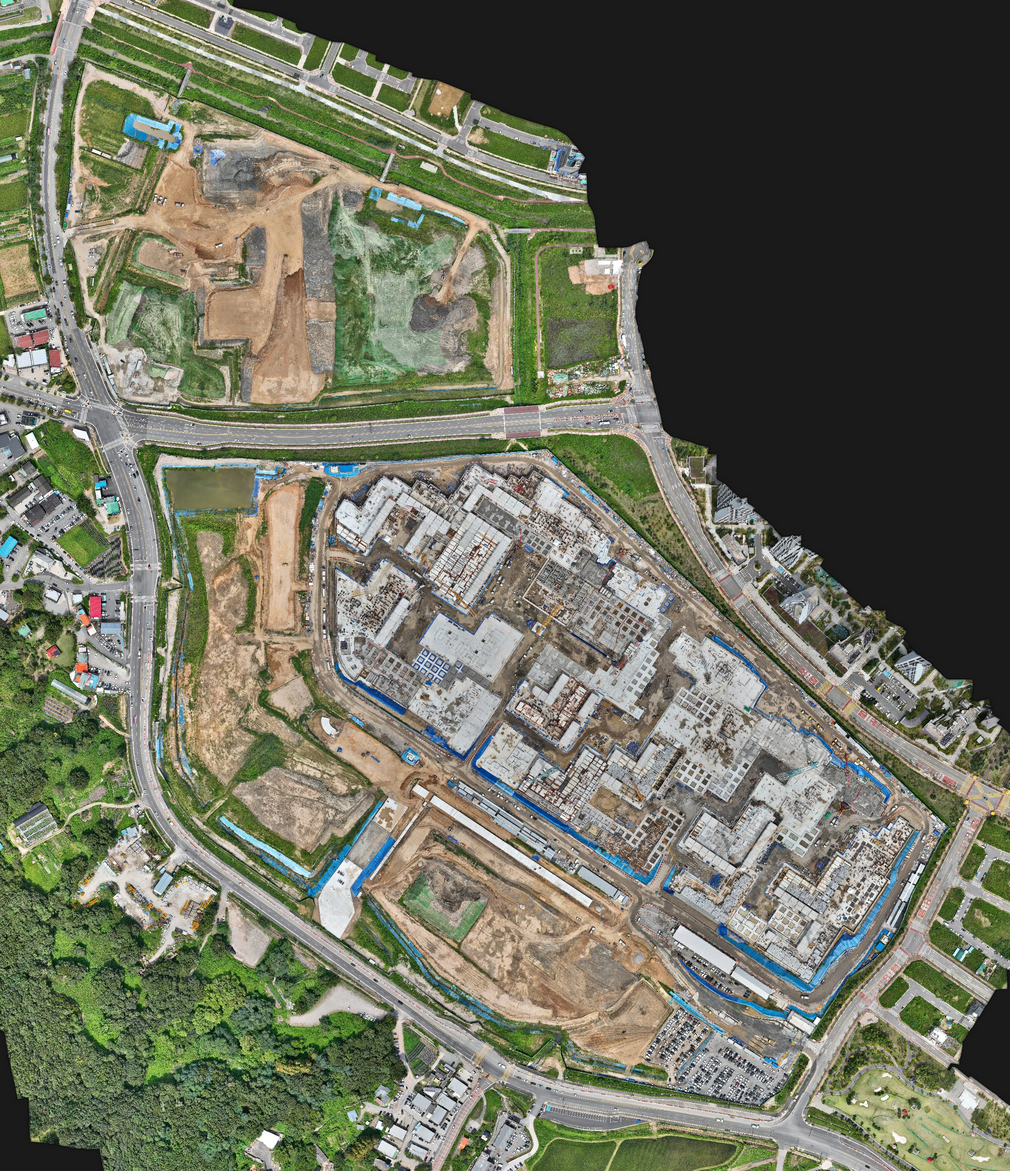
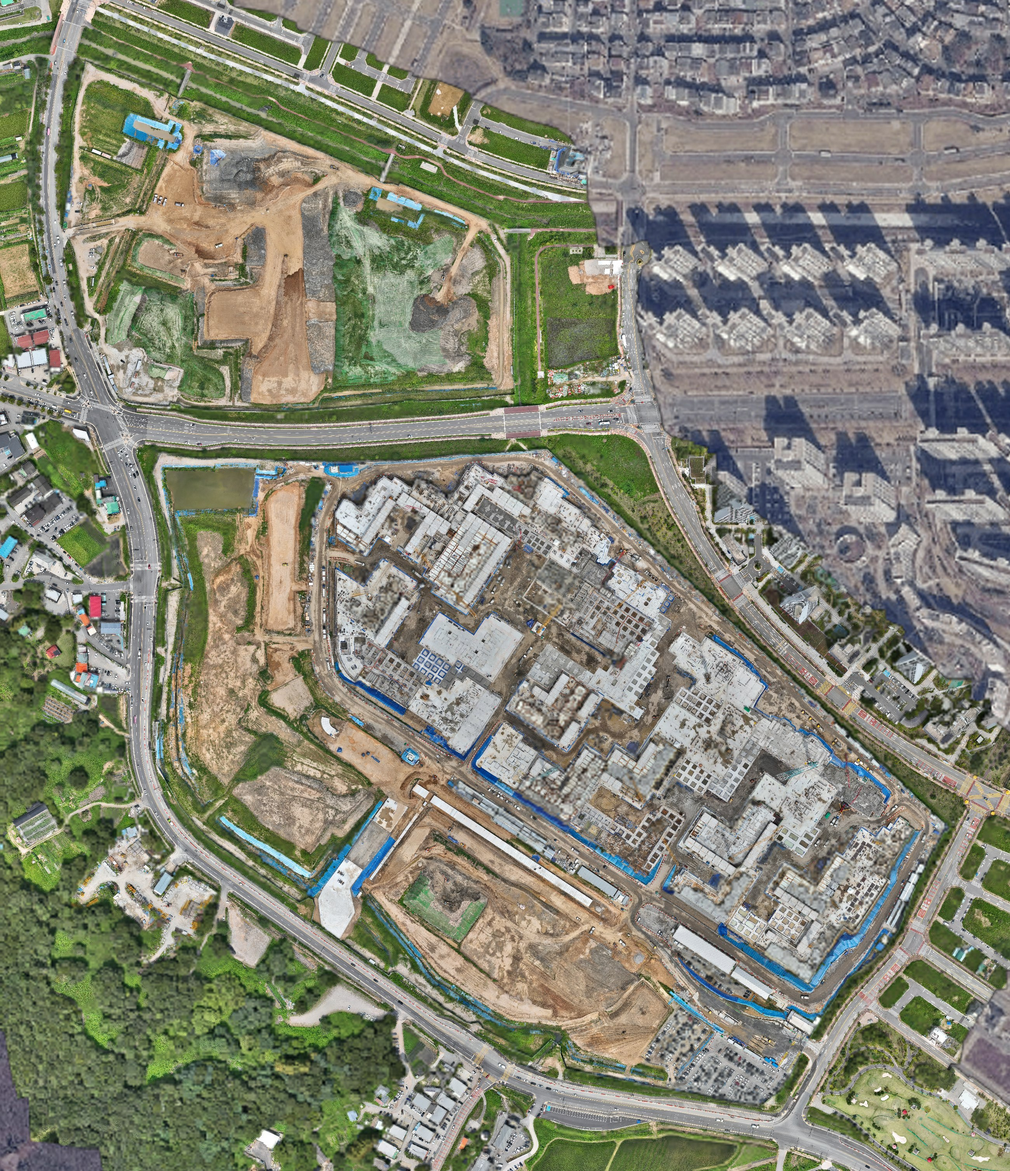
전경 빈 영역 메움(완전 직사각형) + 지도칸 좌우 여백 제거

diff --git a/board.js b/board.js
@@ -618,12 +618,34 @@ function fitW() {
   return Math.min(box.clientWidth, box.clientHeight * (nw / nh));
 }
 
+/* 지도 칸을 사진 비율에 딱 맞춰 좁힌다 — 좌우 검은 여백 제거.
+   높이는 그리드가 정하므로 그 높이에 맞는 폭을 계산해 열 너비로 넣습니다.
+   남는 폭은 우측 정보 영역이 가져갑니다. */
+function hugMap() {
+  const grid = $('.board-grid'), box = $('#siteView'), img = $('#siteImg'), slab = $('.slab-map');
+  const root = document.documentElement;
+  if (!grid || !box || !img || !slab) return;
+  const nw = img.naturalWidth, nh = img.naturalHeight;
+  if (window.innerWidth < 1000 || !S.sFit || !nw || !nh) {
+    root.style.removeProperty('--mapw'); return;
+  }
+  const bh = box.clientHeight; if (!bh) return;
+  const extra = slab.offsetWidth - box.clientWidth;
+  const cs = getComputedStyle(grid);
+  const gap = parseFloat(cs.columnGap) || 12;
+  const avail = grid.clientWidth - parseFloat(cs.paddingLeft) - parseFloat(cs.paddingRight) - gap;
+  const want = bh * (nw / nh) + extra;
+  const min  = window.innerWidth >= 1500 ? 420 : 330;
+  root.style.setProperty('--mapw', Math.round(Math.max(320, Math.min(want, avail - min))) + 'px');
+}
+
 function applyFit() {
   const c = $('.site-canvas'), box = $('#siteView'), img = $('#siteImg');
   if (!c || !box || !img) return;
   box.classList.toggle('fit-wrap', S.sFit);
   const fb = $('#sFit'); if (fb) fb.classList.toggle('active', S.sFit);
 
+  hugMap();
   const base = fitW();
   if (!base) { c.style.width = '100%'; return; }
   const z = S.sFit ? 1 : S.sZoom;

diff --git a/index.html b/index.html
@@ -8,7 +8,7 @@
 <meta name="apple-mobile-web-app-status-bar-style" content="black-translucent">
 <title>현장 상황판</title>
 <link rel="manifest" href="./manifest.json">
-<link rel="stylesheet" href="./board.css?v=202608300930">
+<link rel="stylesheet" href="./board.css?v=202608302344">
 </head>
 <body>
 
@@ -359,7 +359,7 @@
 <script src="https://www.gstatic.com/firebasejs/10.14.1/firebase-auth-compat.js"></script>
 <script src="https://www.gstatic.com/firebasejs/10.14.1/firebase-database-compat.js"></script>
 <script src="https://cdnjs.cloudflare.com/ajax/libs/exceljs/4.4.0/exceljs.min.js"></script>
-<script src="./field.config.js?v=202608300930"></script>
-<script src="./board.js?v=202608300930"></script>
+<script src="./field.config.js?v=202608302344"></script>
+<script src="./board.js?v=202608302344"></script>
 </body>
 </html>

diff --git a/board.css b/board.css
@@ -189,7 +189,7 @@ button,input,select,textarea{font:inherit; color:inherit}
 
 @media(min-width:1000px){
   .board-grid{
-    grid-template-columns:1.2fr minmax(330px,1fr);
+    grid-template-columns:var(--mapw, 1.2fr) minmax(330px,1fr);
     grid-template-rows:minmax(0,1fr);
     overflow:hidden;
   }
@@ -202,7 +202,7 @@ button,input,select,textarea{font:inherit; color:inherit}
   .slab-time{flex:0 0 auto}
 }
 @media(min-width:1500px){
-  .board-grid{grid-template-columns:1.15fr minmax(420px,1fr)}
+  .board-grid{grid-template-columns:var(--mapw, 1.15fr) minmax(420px,1fr)}
 }
 
 .metrics{display:grid; grid-template-columns:repeat(3,1fr); gap:10px}
